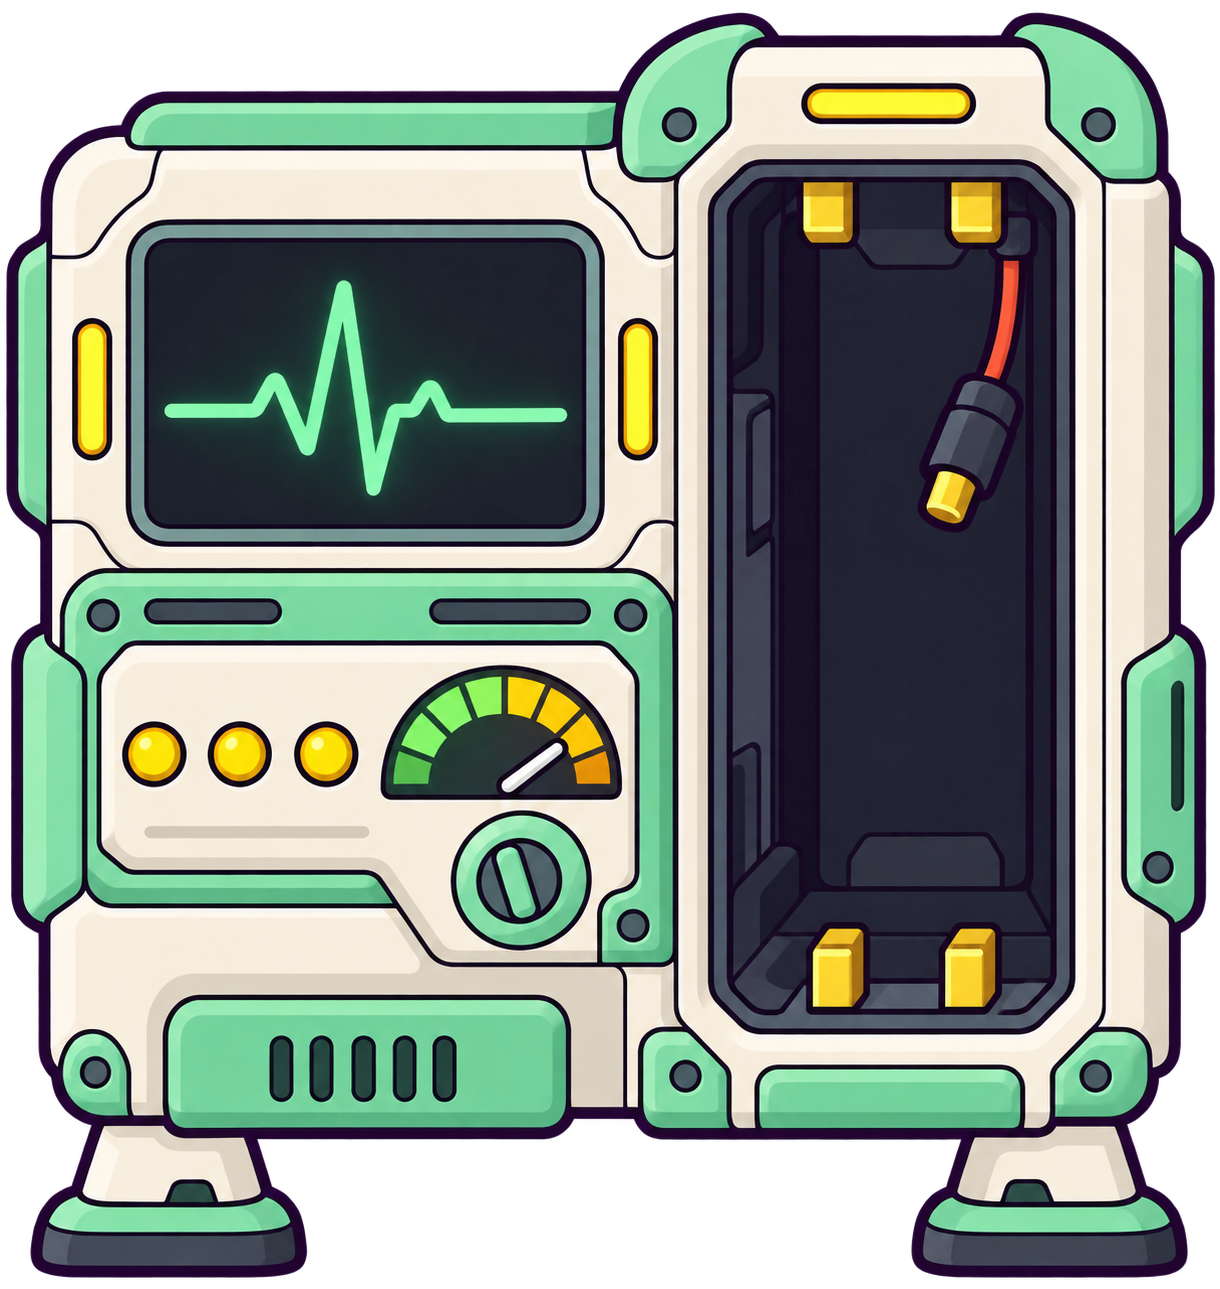
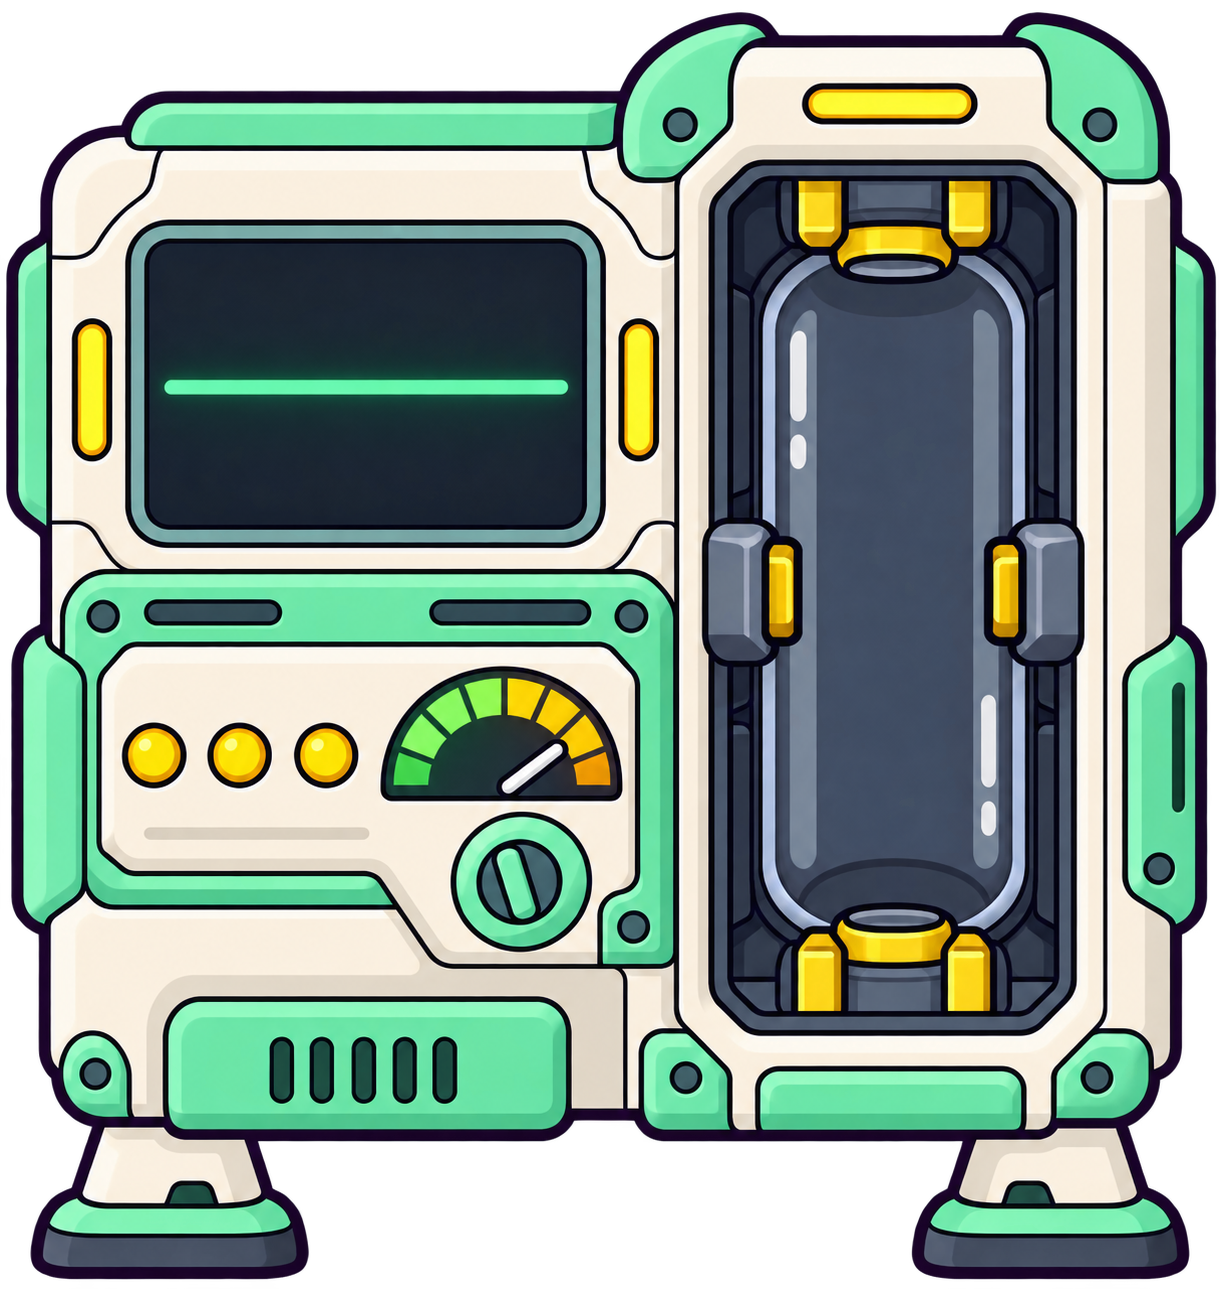
生命維持パネルを人間電池用に変更

diff --git a/app-card-battle-v2.js b/app-card-battle-v2.js
@@ -1009,7 +1009,7 @@ async function runnerGame(){
   const updatedNpcSourceNames=gameNpcNames.map(name=>name+'.png');
   const updatedItemLightNames={'宇宙人の角.png':'item01.jpg','名刺.png':'item02.jpg','下痢止め.png':'item03.jpg','骨.png':'item04.jpg','栄養剤.png':'item05.jpg','拳銃.png':'item06.jpg','温泉の素.png':'item07.jpg','３Dプリンター.png':'item08.jpg','お通し.png':'item09.jpg','便器ブラシ.png':'item10.jpg'};
   // 元画像は npc/ に保存したまま、ゲーム内では軽量化済みの npc-light/ だけを読み込む。
-  const npcAssetVersion='20260929-all-npcs-items-1';
+  const npcAssetVersion='20261002-life-support-slot-1';
   const npcAsset=name=>{name=String(name||'');const art=name.match(/^ura(\d{3})_/),custom=name.match(/^custom(\d{3})_/),npcIndex=updatedNpcSourceNames.indexOf(name),path=art?eventArtSrc(art[1]):custom?eventArtSrc(custom[1]):npcIndex>=0?'npc-light/npc'+String(npcIndex+1).padStart(2,'0'):(updatedItemLightNames[name]?'npc-light/'+updatedItemLightNames[name]:gameItemSrc(name));return path+'?v='+npcAssetVersion};
   // 2つ目の答えでは、まだ出ていない言葉NPCをランダムに出現させる。
   const showGameClear=()=>{if(gameClearShown)return;gameClearShown=true;const clear=document.createElement('div');clear.className='game-clear';clear.innerHTML='<strong>ゲームクリア！</strong><small>タップして閉じる</small>';clear.onclick=()=>clear.remove();runnerWrap.append(clear)};
@@ -1198,7 +1198,7 @@ const focusUpdatedNpcArrival=npc=>{if(npc)npc.visible=true};
       const image=document.createElement('img'),npc={...definition,number,image,placedFromLayout:true,mapIndex:Number(placed.map),x:Number(placed.x)/100*WORLD_WIDTH,y:(100-Number(placed.y))/100*mapHeight(),visible:placed.visible!==false};
       if((npc.eventType||'words')==='words'&&!String(npc.firstMessage||'').trim())npc.firstMessage='こんにちは！';
       const profileAsset=configured?.profileAsset||configured?.profileId||number;
-      image.className='character-npc';image.src='npc-light/'+profileAsset+(String(profileAsset).endsWith('.png')?'':'.png')+'?v=20261002-scenario-flow-1';image.alt=definition.name;
+      image.className='character-npc';image.src='npc-light/'+profileAsset+(String(profileAsset).endsWith('.png')?'':'.png')+'?v=20261002-life-support-slot-1';image.alt=definition.name;
       image.addEventListener('click',event=>{event.preventDefault();event.stopPropagation();if(npc.eventType==='normal'){startNormalNpcEvent(npc);return}if(npc.eventType==='quiz'||npc.eventType==='survey'||npc.eventType==='ultimate'){sanitizeQuizNpc(npc);startQuizNpcEvent(npc);return}if(talkOrbCount>0)openWordNpcIntro(npc);else{const message=document.createElement('div');message.className='character-npc-bubble';message.textContent='話せる実がないよ';characterNpcWrap.append(message);setTimeout(()=>message.remove(),1200)}});
       characterNpcWrap.append(image);characterNpcs.push(npc);
     });

diff --git a/index.html b/index.html
@@ -12,7 +12,7 @@
   <main class="page"><section id="app" class="card"></section></main>
   <script>
     const q=new URLSearchParams(location.search),j=document.createElement('script');
-j.src=q.has('topdown')?'app-topdown.js?v=20260928-map-refresh-2':q.has('hiragana')?'app-hiragana.js?v=20260928-map-refresh-2':'app-card-battle-v2.js?v=20261002-human-battery-sitting-4';
+j.src=q.has('topdown')?'app-topdown.js?v=20260928-map-refresh-2':q.has('hiragana')?'app-hiragana.js?v=20260928-map-refresh-2':'app-card-battle-v2.js?v=20261002-life-support-slot-1';
     document.body.append(j);
   </script>
 </body>

diff --git a/map/index.html b/map/index.html
@@ -12,6 +12,6 @@
 </head>
 <body>
   <main class="page"><section id="app" class="card"></section></main>
-<script src="../app-card-battle-v2.js?v=20261002-human-battery-sitting-4"></script>
+<script src="../app-card-battle-v2.js?v=20261002-life-support-slot-1"></script>
 </body>
 </html>
